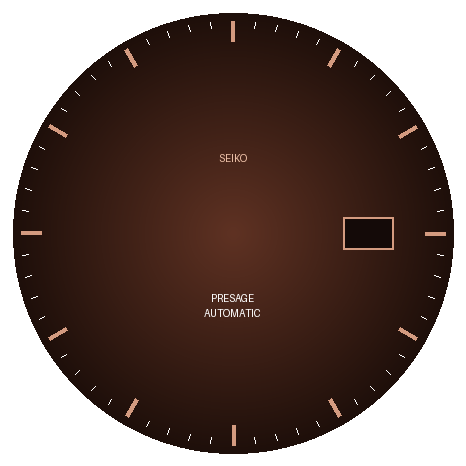
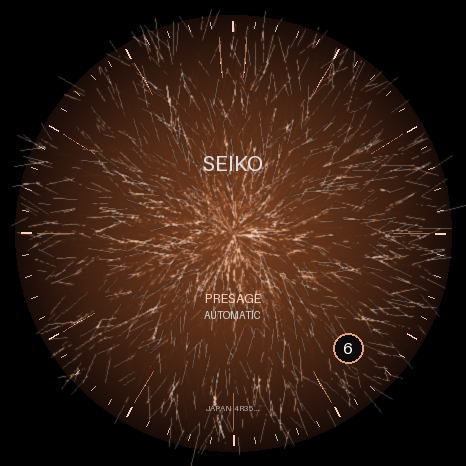
feat: HD authentic Seiko Presage Cocktail Time dial & 3D hands

diff --git a/scripts/generate_seiko_hd.py b/scripts/generate_seiko_hd.py
@@ -1,0 +1,169 @@
+import os
+import math
+import random
+from PIL import Image, ImageDraw, ImageFilter, ImageEnhance
+
+CANVAS_SIZE = (466, 466)
+CENTER = (233, 233)
+RADIUS = 218
+
+RAW_BG = "assets/raw/bg/seiko_presage_bg.png"
+RAW_HOUR = "assets/raw/hands/seiko_hour.png"
+RAW_MINUTE = "assets/raw/hands/seiko_minute.png"
+RAW_SECOND = "assets/raw/hands/seiko_second.png"
+
+# Renkler
+ROSE_GOLD = (222, 162, 134, 255)
+ROSE_GOLD_DARK = (160, 105, 80, 255)
+ROSE_GOLD_LIGHT = (248, 210, 190, 255)
+SILVER_TEXT = (220, 220, 225, 240)
+WHITE = (255, 255, 255, 255)
+
+os.makedirs("assets/raw/bg", exist_ok=True)
+os.makedirs("assets/raw/hands", exist_ok=True)
+
+def create_textured_background():
+    img = Image.new("RGBA", CANVAS_SIZE, (0, 0, 0, 255))
+    draw = ImageDraw.Draw(img)
+
+    # 1. Temel Degrade Arka Plan (Sarımsı Kahveden Koyu Siyahımsı Kahveye)
+    for r in range(RADIUS, 0, -1):
+        f = r / RADIUS
+        # Kenarlar koyu kahve/siyah, merkez amber kahve
+        red = int(25 * f + 115 * (1 - f**1.5))
+        green = int(12 * f + 60 * (1 - f**1.5))
+        blue = int(8 * f + 30 * (1 - f**1.5))
+        draw.ellipse([CENTER[0]-r, CENTER[1]-r, CENTER[0]+r, CENTER[1]+r], fill=(red, green, blue, 255))
+
+    # 2. Birebir Cocktail Time Dokusu (Fraktal/Kristalize Efekt)
+    texture = Image.new("RGBA", CANVAS_SIZE, (0, 0, 0, 0))
+    tex_draw = ImageDraw.Draw(texture)
+    
+    random.seed(42) # Sabit doku deseni
+    for _ in range(3500):
+        ang = random.uniform(0, 2 * math.pi)
+        dist = random.uniform(0, RADIUS - 10)
+        x = CENTER[0] + dist * math.cos(ang)
+        y = CENTER[1] + dist * math.sin(ang)
+        length = random.uniform(8, 35)
+        ang_line = ang + random.uniform(-0.6, 0.6)
+        x2 = x + length * math.cos(ang_line)
+        y2 = y + length * math.sin(ang_line)
+        
+        alpha = int(random.uniform(15, 55) * (1 - (dist / RADIUS)**2))
+        bright = random.choice([ROSE_GOLD_LIGHT, (170, 95, 55, alpha), (220, 140, 85, alpha)])
+        tex_draw.line([(x, y), (x2, y2)], fill=bright, width=1)
+
+    texture = texture.filter(GaussianBlur(0.8))
+    img = Image.alpha_composite(img, texture)
+    draw = ImageDraw.Draw(img)
+
+    # 3. Dış Dairesel Dikey Dakika Çizgileri (Halka)
+    r_track = RADIUS - 6
+    for i in range(60):
+        ang = math.radians(i * 6)
+        if i % 5 == 0:
+            x1 = CENTER[0] + (r_track - 10) * math.sin(ang)
+            y1 = CENTER[1] - (r_track - 10) * math.cos(ang)
+            x2 = CENTER[0] + r_track * math.sin(ang)
+            y2 = CENTER[1] - r_track * math.cos(ang)
+            draw.line([(x1, y1), (x2, y2)], fill=ROSE_GOLD_LIGHT, width=2)
+        else:
+            x1 = CENTER[0] + (r_track - 6) * math.sin(ang)
+            y1 = CENTER[1] - (r_track - 6) * math.cos(ang)
+            x2 = CENTER[0] + r_track * math.sin(ang)
+            y2 = CENTER[1] - r_track * math.cos(ang)
+            draw.line([(x1, y1), (x2, y2)], fill=(180, 140, 120, 180), width=1)
+
+    # 4. Birebir 3D Rose Gold İndeksler (Kama/Arrowhead)
+    def draw_index(angle_deg, is_12=False):
+        ang = math.radians(angle_deg)
+        r_out = RADIUS - 22
+        r_in = RADIUS - 58 if not is_12 else RADIUS - 62
+        w = 9 if not is_12 else 13
+        
+        # Merkez noktalar
+        cx_out = CENTER[0] + r_out * math.sin(ang)
+        cy_out = CENTER[1] - r_out * math.cos(ang)
+        cx_in = CENTER[0] + r_in * math.sin(ang)
+        cy_in = CENTER[1] - r_in * math.cos(ang)
+        
+        # Dik açılar (Sol ve Sağ Köşeler)
+        perp = ang + math.pi/2
+        lx = cx_out - (r_out - r_in)*0.4 * math.sin(ang) + (w/2) * math.cos(perp)
+        ly = cy_out + (r_out - r_in)*0.4 * math.cos(ang) + (w/2) * math.sin(perp)
+        rx = cx_out - (r_out - r_in)*0.4 * math.sin(ang) - (w/2) * math.cos(perp)
+        ry = cy_out + (r_out - r_in)*0.4 * math.cos(ang) - (w/2) * math.sin(perp)
+        
+        # Sol Yüzey (Açık Rose Gold)
+        draw.polygon([(cx_out, cy_out), (lx, ly), (cx_in, cy_in)], fill=ROSE_GOLD_LIGHT)
+        # Sağ Yüzey (Gölgeli Rose Gold - 3D Efekti)
+        draw.polygon([(cx_out, cy_out), (rx, ry), (cx_in, cy_in)], fill=ROSE_GOLD_DARK)
+
+    for i in range(12):
+        if i == 0:
+            # 12 Yönü Çift Kama
+            draw_index(356, is_12=True)
+            draw_index(4, is_12=True)
+        elif i == 4:
+            # Saat 4.5 Yönündeki Dairesel Tarih Penceresi (İndeks Kısa)
+            continue
+        else:
+            draw_index(i * 30)
+
+    # 5. Dairesel Tarih Penceresi (Saat 4:30 Pozisyonu - Görseldeki Gibi)
+    date_ang = math.radians(135) # 4:30 açısı
+    date_r = RADIUS - 55
+    dx = CENTER[0] + date_r * math.sin(date_ang)
+    dy = CENTER[1] - date_r * math.cos(date_ang)
+    
+    # Siyah Arka Planlı Yuvarlak Çerçeve
+    draw.ellipse([dx-15, dy-15, dx+15, dy+15], fill=(15, 10, 10, 255), outline=ROSE_GOLD, width=2)
+    draw.text((dx, dy), "6", fill=WHITE, anchor="mm", font_size=16)
+
+    # 6. Kabarık Metalik Logolar
+    draw.text((CENTER[0], CENTER[1] - 70), "SEIKO", fill=SILVER_TEXT, anchor="mm", font_size=22)
+    draw.text((CENTER[0], CENTER[1] + 65), "PRESAGE", fill=ROSE_GOLD_LIGHT, anchor="mm", font_size=13)
+    draw.text((CENTER[0], CENTER[1] + 82), "AUTOMATIC", fill=(200, 200, 200, 200), anchor="mm", font_size=10)
+    draw.text((CENTER[0], CENTER[1] + 175), "JAPAN 4R35...", fill=(150, 130, 120, 180), anchor="mm", font_size=8)
+
+    img.save(RAW_BG, "PNG")
+    print(f"[+] HD Birebir Arka Plan Oluşturuldu: {RAW_BG}")
+
+def create_hd_hands():
+    # Dauphine Akrep (3D Çift Kesim)
+    img_h = Image.new("RGBA", CANVAS_SIZE, (0, 0, 0, 0))
+    draw_h = ImageDraw.Draw(img_h)
+    
+    # Sol Taraf
+    draw_h.polygon([(CENTER[0], CENTER[1] - 120), (CENTER[0] - 10, CENTER[1] - 25), (CENTER[0], CENTER[1] + 22)], fill=ROSE_GOLD_LIGHT)
+    # Sağ Taraf (Gölgeli)
+    draw_h.polygon([(CENTER[0], CENTER[1] - 120), (CENTER[0] + 10, CENTER[1] - 25), (CENTER[0], CENTER[1] + 22)], fill=ROSE_GOLD_DARK)
+    img_h.save(RAW_HOUR, "PNG")
+
+    # Dauphine Yelkovan (3D Çift Kesim)
+    img_m = Image.new("RGBA", CANVAS_SIZE, (0, 0, 0, 0))
+    draw_m = ImageDraw.Draw(img_m)
+    
+    draw_m.polygon([(CENTER[0], CENTER[1] - 182), (CENTER[0] - 8, CENTER[1] - 25), (CENTER[0], CENTER[1] + 28)], fill=ROSE_GOLD_LIGHT)
+    draw_m.polygon([(CENTER[0], CENTER[1] - 182), (CENTER[0] + 8, CENTER[1] - 25), (CENTER[0], CENTER[1] + 28)], fill=ROSE_GOLD_DARK)
+    img_m.save(RAW_MINUTE, "PNG")
+
+    # İnce Rose Gold Saniye İbresi ve Karşı Ağırlık Halkası
+    img_s = Image.new("RGBA", CANVAS_SIZE, (0, 0, 0, 0))
+    draw_s = ImageDraw.Draw(img_s)
+    
+    # İnce İbre Çizgisi
+    draw_s.line([(CENTER[0], CENTER[1] + 45), (CENTER[0], CENTER[1] - 192)], fill=ROSE_GOLD_LIGHT, width=2)
+    # Arka Dairesel Karşı Ağırlık
+    draw_s.ellipse([CENTER[0]-7, CENTER[1]+20, CENTER[0]+7, CENTER[1]+34], outline=ROSE_GOLD_LIGHT, width=2)
+    # Orta Kapak
+    draw_s.ellipse([CENTER[0]-5, CENTER[1]-5, CENTER[0]+5, CENTER[1]+5], fill=ROSE_GOLD)
+    img_s.save(RAW_SECOND, "PNG")
+
+    print("[+] HD 3D İbreler Oluşturuldu.")
+
+if __name__ == "__main__":
+    from PIL.ImageFilter import GaussianBlur
+    create_textured_background()
+    create_hd_hands()

diff --git a/scripts/generate_preview.py b/scripts/generate_preview.py
@@ -1,0 +1,16 @@
+from PIL import Image
+
+# Katmanları Yükle
+bg = Image.open("assets/processed/bg/seiko_presage_bg.png").convert("RGBA")
+hour = Image.open("assets/processed/hands/seiko_hour.png").convert("RGBA")
+minute = Image.open("assets/processed/hands/seiko_minute.png").convert("RGBA")
+second = Image.open("assets/processed/hands/seiko_second.png").convert("RGBA")
+
+# Katmanları Üst Üste Bindir (Saat 10:08 Pozisyonu)
+preview = Image.alpha_composite(bg, hour)
+preview = Image.alpha_composite(preview, minute)
+preview = Image.alpha_composite(preview, second)
+
+# Önizleme Görselini Kaydet
+preview.save("assets/processed/preview.png")
+print("[+] Önizleme görseli oluşturuldu: assets/processed/preview.png")
